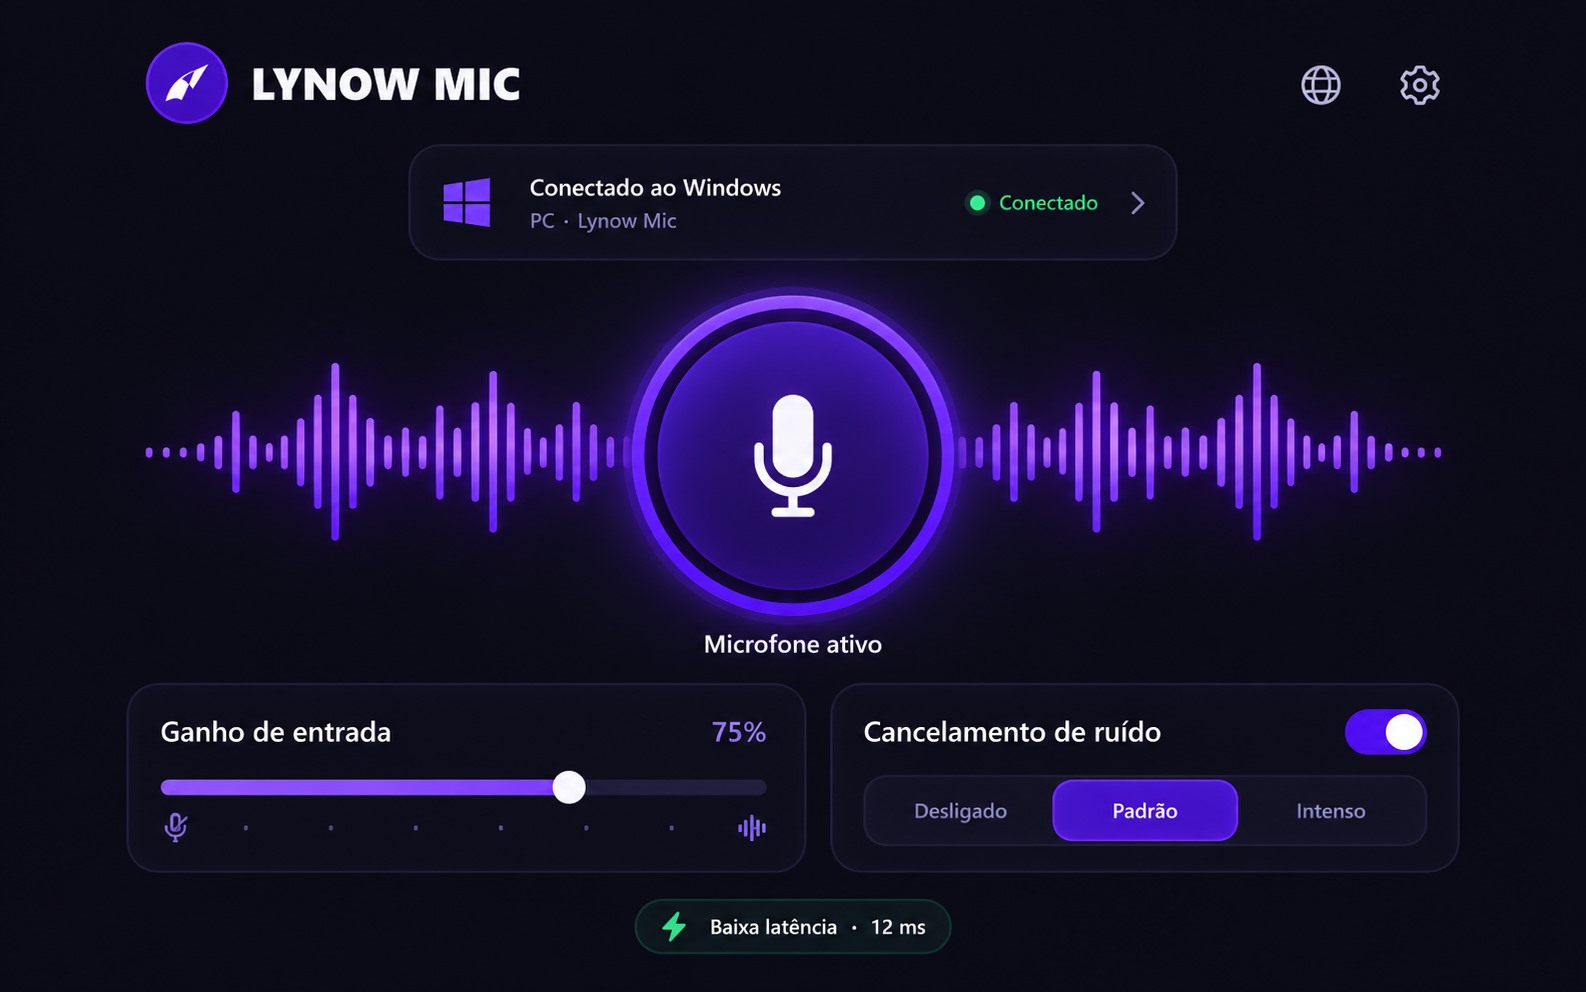
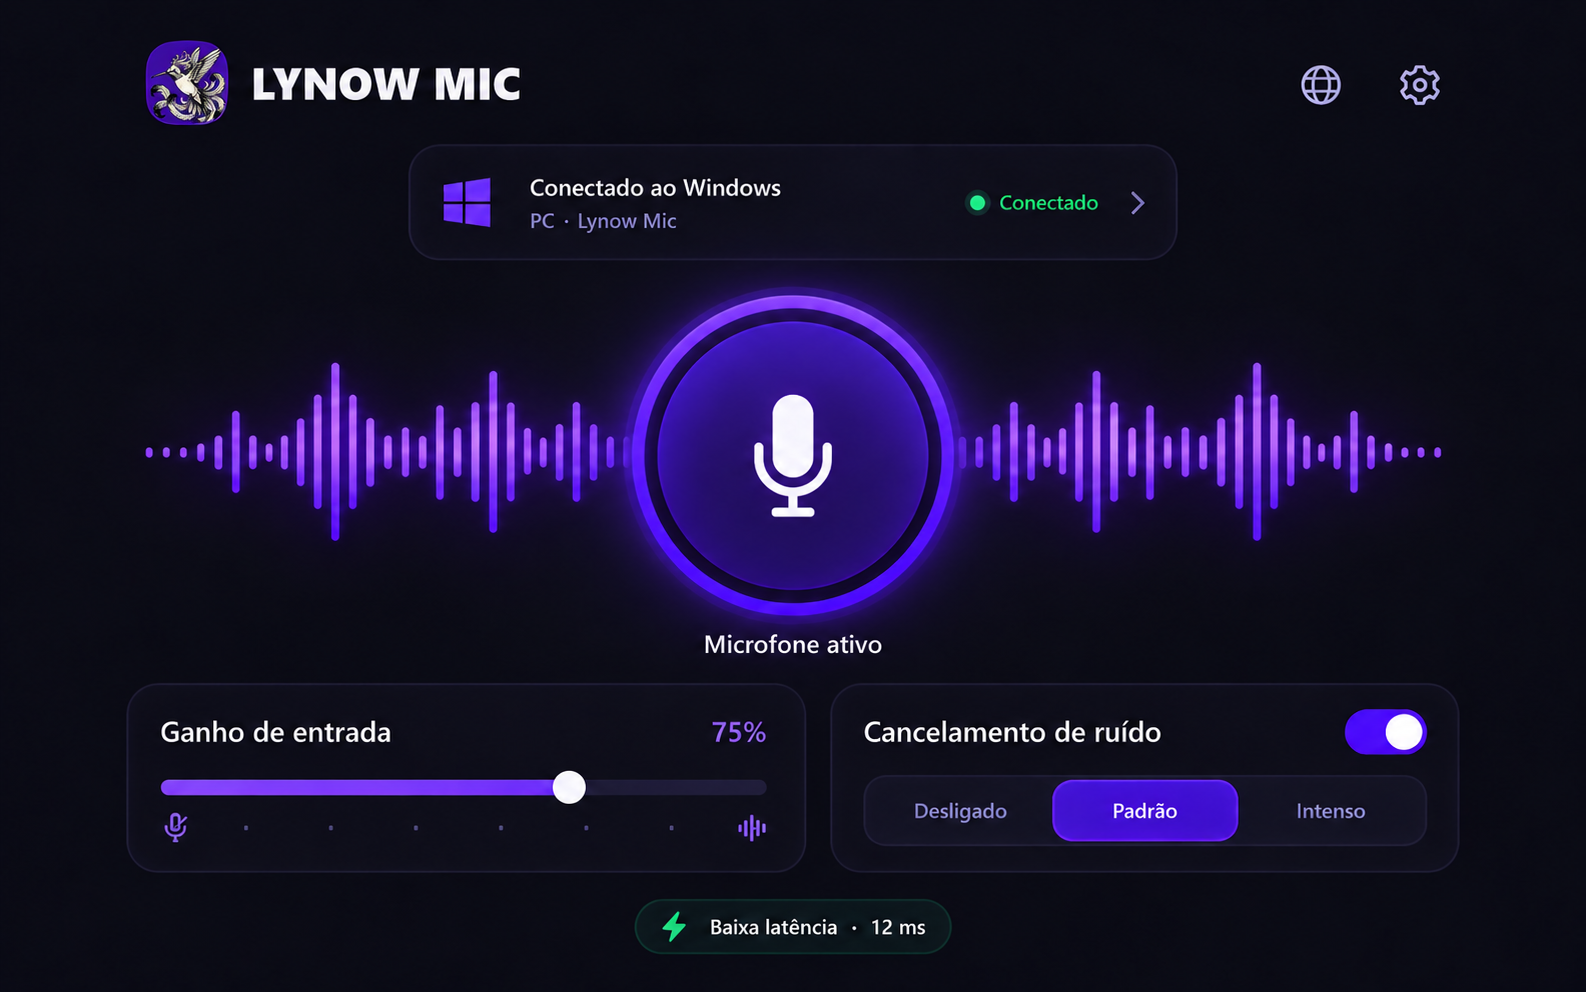
Corrige identidade oficial em todas as imagens

diff --git a/LynowMic-0.1-alpha/Codigo-fonte/LEIA-ME-PRIMEIRO.html b/LynowMic-0.1-alpha/Codigo-fonte/LEIA-ME-PRIMEIRO.html
@@ -4,7 +4,7 @@
 <head>
   <meta charset="utf-8" />
   <meta name="viewport" content="width=device-width, initial-scale=1" />
-  <link rel="icon" href="../images/lynow-logo.svg" type="image/svg+xml" />
+  <link rel="icon" href="favicon.ico" sizes="any" />
   <title>Lynow Mic</title>
   <meta name="description"
     content="Transforme seu celular Android em um microfone profissional sem fio para PC com baixa latência, áudio PCM de alta fidelidade e pareamento instantâneo por QR Code." />
@@ -1242,7 +1242,7 @@
       <div class="nav-left">
         <a href="#hero" class="nav-brand">
           <img
-            src="../images/lynow-logo.svg"
+            src="../images/lynow-logo.jpg"
             alt="Logo Lynow Mic" class="nav-brand-img" />
           <span>Lynow<span style="color: var(--app-ink);">Mic</span></span>
         </a>
@@ -1313,7 +1313,7 @@
       <!-- App Icon Badge -->
       <div class="app-icon-badge">
         <img
-          src="../images/lynow-logo.svg"
+          src="../images/lynow-logo.jpg"
           alt="Logo Lynow Mic" class="app-icon-img" />
         <div class="app-title-tag">
           <span class="app-number-pill">01</span>
@@ -1941,7 +1941,7 @@
       <div class="footer-inner">
         <div class="footer-brand">
           <img
-            src="../images/lynow-logo.svg"
+            src="../images/lynow-logo.jpg"
             alt="Logo Lynow Mic" />
           <span>Lynow<span style="color: var(--app-ink);">Mic</span></span>
           <span style="color: var(--faint); font-weight: 400; font-size: 12px; margin-left: 6px;">· Alpha v0.1</span>

diff --git a/LynowMic-0.1-alpha/LEIA-ME-PRIMEIRO.html b/LynowMic-0.1-alpha/LEIA-ME-PRIMEIRO.html
@@ -4,7 +4,7 @@
 <head>
   <meta charset="utf-8" />
   <meta name="viewport" content="width=device-width, initial-scale=1" />
-  <link rel="icon" href="images/lynow-logo.svg" type="image/svg+xml" />
+  <link rel="icon" href="favicon.ico" sizes="any" />
   <title>Lynow Mic</title>
   <meta name="description"
     content="Transforme seu celular Android em um microfone profissional sem fio para PC com baixa latência, áudio PCM de alta fidelidade e pareamento instantâneo por QR Code." />
@@ -1242,7 +1242,7 @@
       <div class="nav-left">
         <a href="#hero" class="nav-brand">
           <img
-            src="images/lynow-logo.svg"
+            src="images/lynow-logo.jpg"
             alt="Logo Lynow Mic" class="nav-brand-img" />
           <span>Lynow<span style="color: var(--app-ink);">Mic</span></span>
         </a>
@@ -1313,7 +1313,7 @@
       <!-- App Icon Badge -->
       <div class="app-icon-badge">
         <img
-          src="images/lynow-logo.svg"
+          src="images/lynow-logo.jpg"
           alt="Logo Lynow Mic" class="app-icon-img" />
         <div class="app-title-tag">
           <span class="app-number-pill">01</span>
@@ -1941,7 +1941,7 @@
       <div class="footer-inner">
         <div class="footer-brand">
           <img
-            src="images/lynow-logo.svg"
+            src="images/lynow-logo.jpg"
             alt="Logo Lynow Mic" />
           <span>Lynow<span style="color: var(--app-ink);">Mic</span></span>
           <span style="color: var(--faint); font-weight: 400; font-size: 12px; margin-left: 6px;">· Alpha v0.1</span>

diff --git a/README.md b/README.md
@@ -1,6 +1,8 @@
 <p align="center">
-  <img src="LynowMic-0.1-alpha/images/lynow-brand.svg" alt="Lynow Mic" width="100%">
+  <img src="LynowMic-0.1-alpha/images/lynow-logo.jpg" alt="Logo oficial do Lynow Mic" width="180">
 </p>
+
+<h1 align="center">Lynow Mic</h1>
 
 <p align="center">
   Transforme o microfone do seu celular Android em uma fonte de áudio para o Windows pela rede local.
